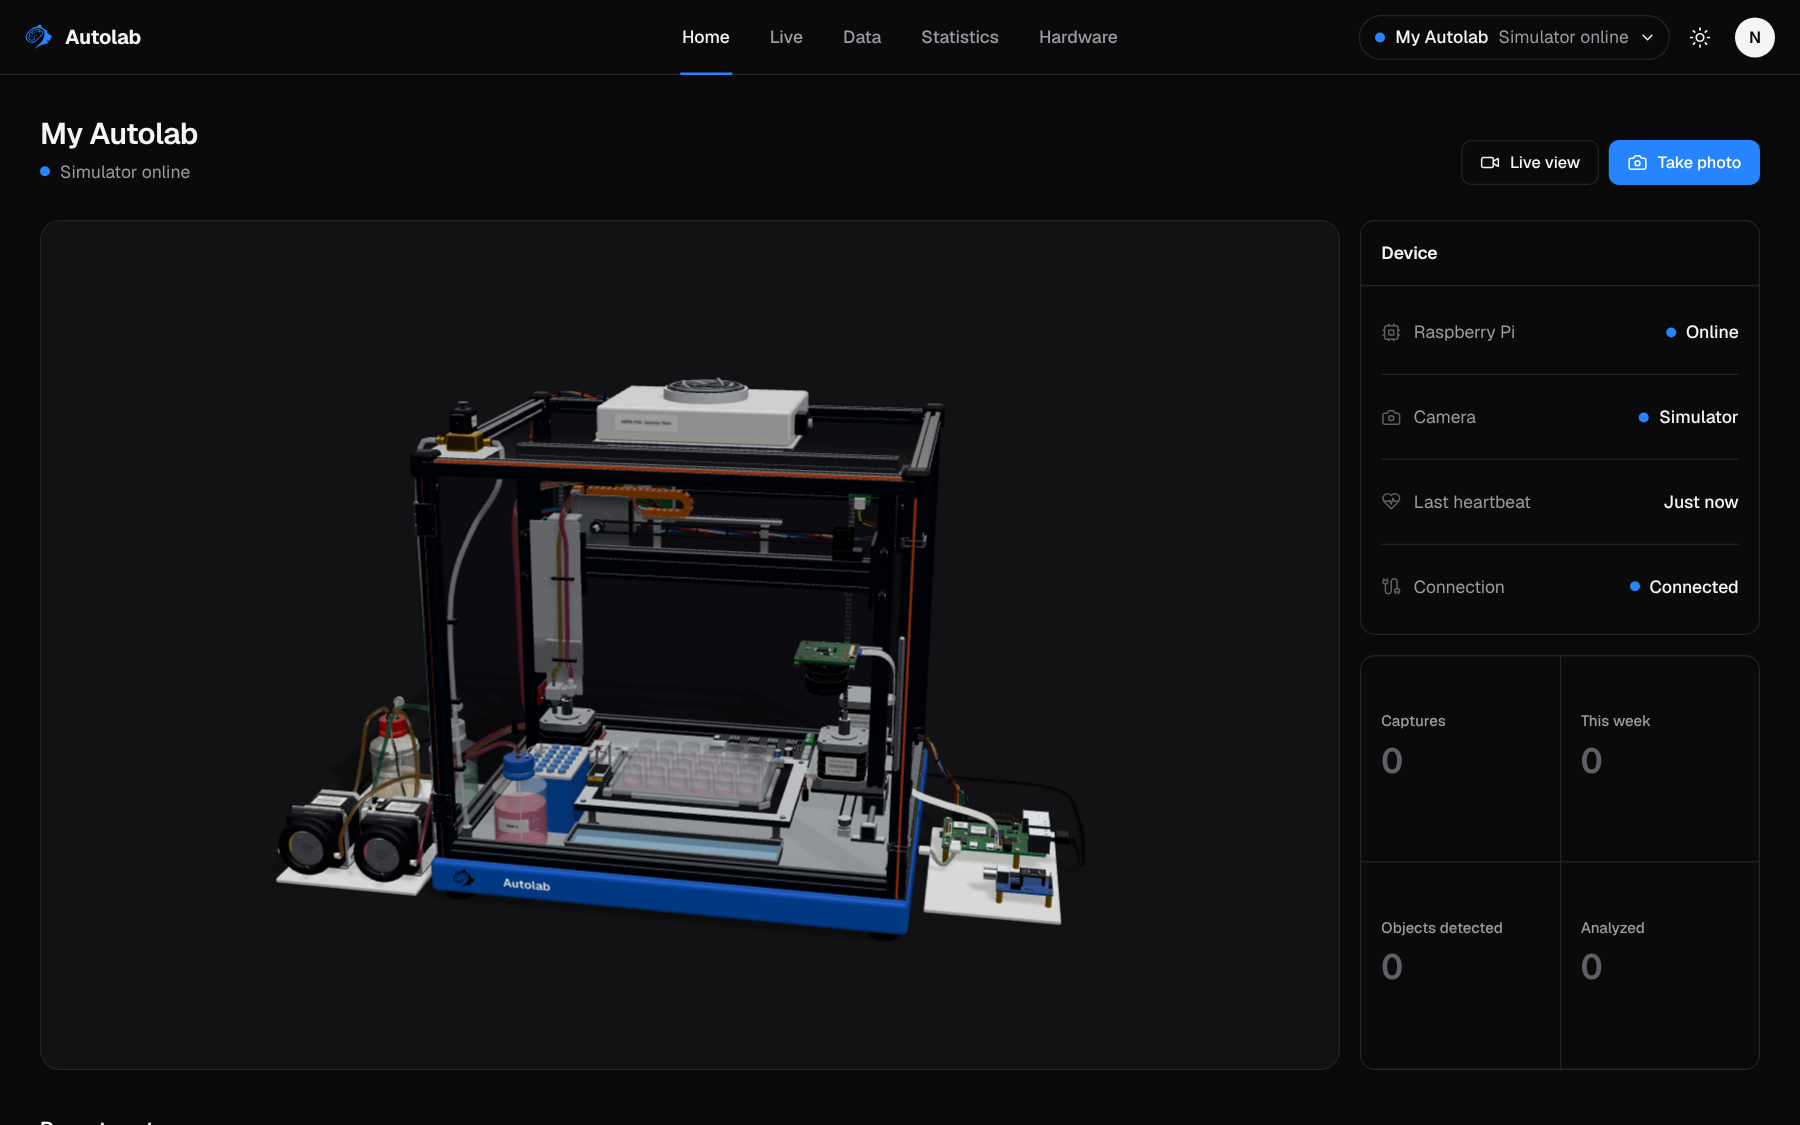
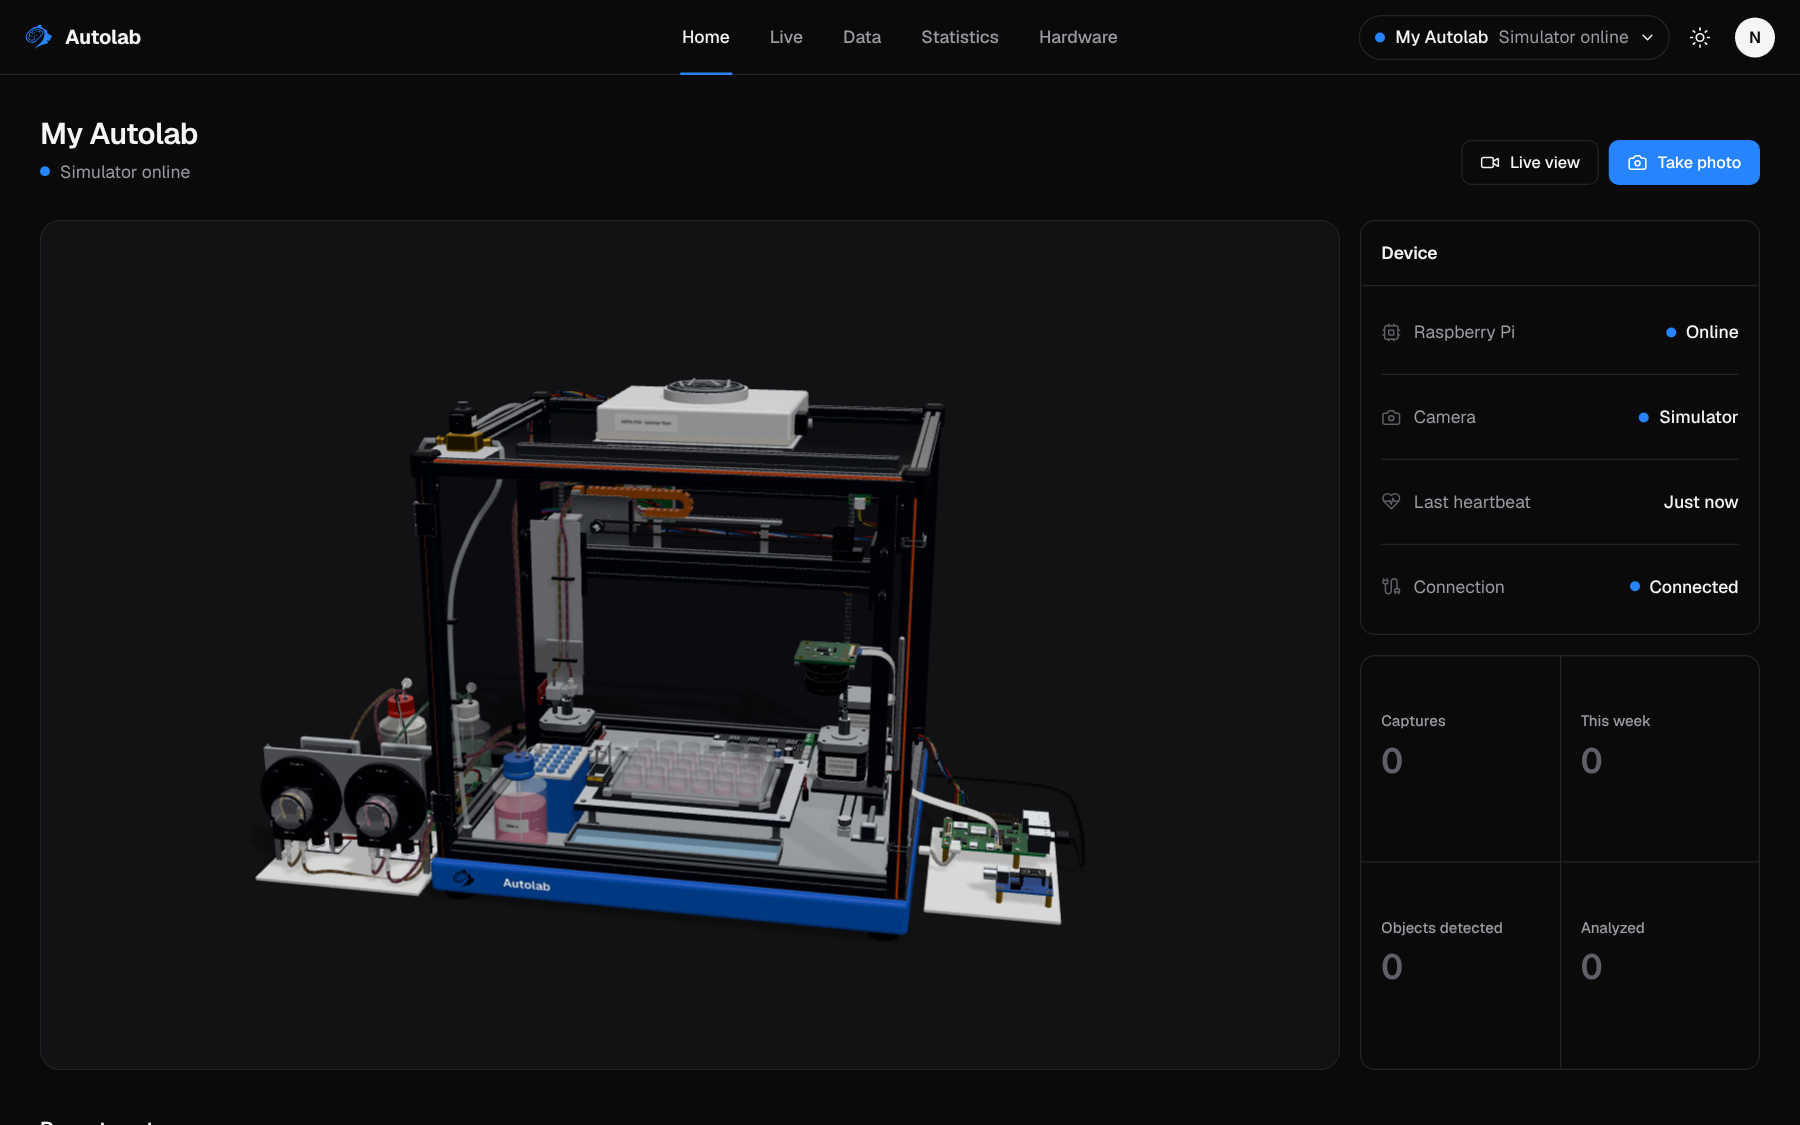
Name the PMST100 and SMC10 in the docs
The README and the 3D model guide now name the real pumps and controllers, explain how the demo moves liquid, and show the new Home screenshot.

Claude-Session: https://claude.ai/code/session_019cGjL1GYCLbSfZEehKf6yM

Changed region(s): [[0.1244, 0.5911, 0.28, 0.8089]]

diff --git a/docs/digital-twin.md b/docs/digital-twin.md
@@ -16,14 +16,15 @@ The model follows the system design sketch, the fluidics sketch and the enclosur
 - **The gantry**: the converted Ender-3 motion system, carrying the camera dock and the **dispense head**.
 - **The dispense head** replaces the pipette. Its stainless nose takes a disposable tip for aspiration, and a blunt needle beside it is the end of the addition line. It has no motor or electronics; the pumps do the work.
 - **The fluidics platform**, outside on the left so bleach fumes and motor heat stay out of the chamber, holds what the fluidics sketch calls the combined system:
-  - **Pump 1 (addition)**, a reversible peristaltic pump. Behind it the **3-way valve** connects it to fresh media, cleaner or waste.
-  - **Pump 2 (aspiration)**, the same pump. Behind it the **2-way valve** connects it to waste or cleaner.
+  - **Pump 1 (addition)** and **pump 2 (aspiration)**: Simply Pumps PMST100 stepper peristaltic pumps, modelled from the maker's dimensional drawing. Each mounts through an aluminium panel as designed, round flange and four roller head in front, NEMA 17 behind, both tube fittings pointing down. On 1/16" ID tubing each moves 0.065 mL a revolution, up to 75 RPM.
+  - Under each pump's motor, its selector valve: the **3-way valve** connects pump 1 to fresh media, cleaner or waste, and the **2-way valve** connects pump 2 to waste or cleaner.
+  - Behind the motors, a Simply Pumps **SMC10** controller for each pump, wired as its quick start guide shows: 24 V and the motor's two coils on its screw terminals, and the Pico's enable, direction and speed lines on its I/O header. A 24 V supply sits on the bench behind the platform.
   - The **cleaner** bottle (70% ethanol) and the **waste bottle and bleach trap**, shared by both valves. The waste has a float switch, so the pumps stop before it's full.
   - The **Pico** and its driver board, which run all of the above.
 - **Inside the chamber**: the heated platform with the 24-well plate, the wash station and the **tip disposal bin** with its stripper, the tip rack, and the **media bottle**, kept at 37 °C, whose line runs out to the 3-way valve.
 - **The Pi platform** on the right with the Pi and the pH board, and the environment sensors and outputs around the chamber.
 
-The fluid lines are coloured by what usually runs in them, like the sketch's key: pink for fresh media, amber for spent media and waste, green for cleaner.
+The fluid lines are clear Tygon with the liquid showing inside, coloured like the sketch's key: pink for fresh media, amber for spent media and waste, green for cleaner.
 
 ## Using the Hardware screen
 
@@ -44,7 +45,7 @@ Home runs a looping media change on three wells, the protocol from the fluidics 
 4. The addition pump runs back with its valve open to waste, so the line doesn't drip.
 5. The head parks, the camera's LED blinks for a picture, and the loop starts again with other wells.
 
-Z always lifts to a safe height before any X or Y travel. Travel is quick with eased starts and stops, and moves onto a tip or into liquid are slow. Lead screws, pulleys and motor shafts turn with their axes, the drag chain rolls, the cables and fluid lines bend across the moving joints, and the circulation and HEPA fans spin. Each pump's rotor turns while it runs, one way to push toward the head and the other to draw back, and each pinch valve's green light shows which port is open.
+Z always lifts to a safe height before any X or Y travel. Travel is quick with eased starts and stops, and moves onto a tip or into liquid are slow. Lead screws, pulleys and motor shafts turn with their axes, the drag chain rolls, the cables and fluid lines bend across the moving joints, and the circulation and HEPA fans spin. The liquid really moves: while a pump runs, its rotor turns at the PMST100's 75 RPM, one way to push toward the head and the other to draw back, and the liquid in every line it's pumping through travels along at the speed 0.065 mL a revolution gives in a 1/16" bore, with the line glowing while it flows. Only the bottle line its valve has open moves; the valve's green light shows which. Each dose takes as long as it really would at that speed, so the wells empty and fill, the media bottle goes down and the waste comes up in step with the pumps, and the SMC10s' status lights show which pump is running.
 
 The demo pauses when the model is scrolled out of view or the tab is hidden. On Home it's off entirely when the system asks for reduced motion. The Hardware screen runs it only when you press **Live view**, and then it plays whatever the motion setting, since you asked for it.
 
@@ -82,7 +83,7 @@ That's an example of the format only. Nothing in the app or the agent sends samp
 | `src/components/hardware` | The Hardware screen: the list, the details panel, the toolbar and `MachineView`, the one component every screen embeds. |
 | `src/components/hardware/scene` | The canvas, the scene, each selectable part node, camera framing and the Connections overlay. |
 | `src/components/three` | The shared 3D kit: the stage, lighting and shadows, materials and colours, primitives, camera controls and picking. |
-| `src/components/three/models` | One model per part, with shared board details (chips, headers, connectors), the machine body, labware, the fluidics under `fluidics/`, and the wiring and tubing under `machine/wiring`. |
+| `src/components/three/models` | One model per part, with shared board details (chips, headers, connectors), the machine body, labware, the fluidics under `fluidics/` (the real parts' dimensions in `pump-spec.ts`, the moving liquid in `flow.ts`), and the wiring and tubing under `machine/wiring`. |
 | `src/components/three/motion` | The demo. `script.ts` and `cycle.ts` write the loop as a robot program, `timeline.ts` turns a time into a machine pose (axes, pump rotors, open valve ports, liquid levels), and the moving parts read that pose each frame. |
 
 To change where a part sits, edit its registry entry. The model, its hit boxes, the camera framing, the exploded view and the demo's reach all follow from it, and so do the ends of its fluid lines. The whole fluidics platform moves with `FLUIDICS` in `machine/layout.ts`. To swap a hand built model for a GLB file, keep the model's origin and scale and replace its body.

diff --git a/README.md b/README.md
@@ -4,7 +4,7 @@
 
 <h1 align="center">Autolab</h1>
 
-Autolab is a low cost automated cell culture system for neuronal cultures, built by the Neurotech wet lab team. A desktop 3D printer gantry sits inside an insulated enclosure that holds 37 °C, 5% CO₂ and 85 to 95% humidity. The gantry carries a dispense head for media changes and a Raspberry Pi HQ camera for checking the culture. Two reversible peristaltic pumps do the liquid handling, a HEPA fan filter unit keeps a laminar downflow over the plate, and it's all run by a Raspberry Pi 4 with a Pico for the fluidics.
+Autolab is a low cost automated cell culture system for neuronal cultures, built by the Neurotech wet lab team. A desktop 3D printer gantry sits inside an insulated enclosure that holds 37 °C, 5% CO₂ and 85 to 95% humidity. The gantry carries a dispense head for media changes and a Raspberry Pi HQ camera for checking the culture. Two Simply Pumps PMST100 stepper peristaltic pumps, each run by an SMC10 controller, do the liquid handling, a HEPA fan filter unit keeps a laminar downflow over the plate, and it's all run by a Raspberry Pi 4 with a Pico for the fluidics.
 
 This repository is the software. You sign in, connect your Autolab over Bluetooth, and then watch the live camera, take photos, run object detection and browse the results. In lab mode the Pi talks to Supabase itself, so you can watch, take photos and follow along from any phone or laptop, with no computer kept on next to the machine. A 3D model of the whole machine shows every part and what state it's in.
 
